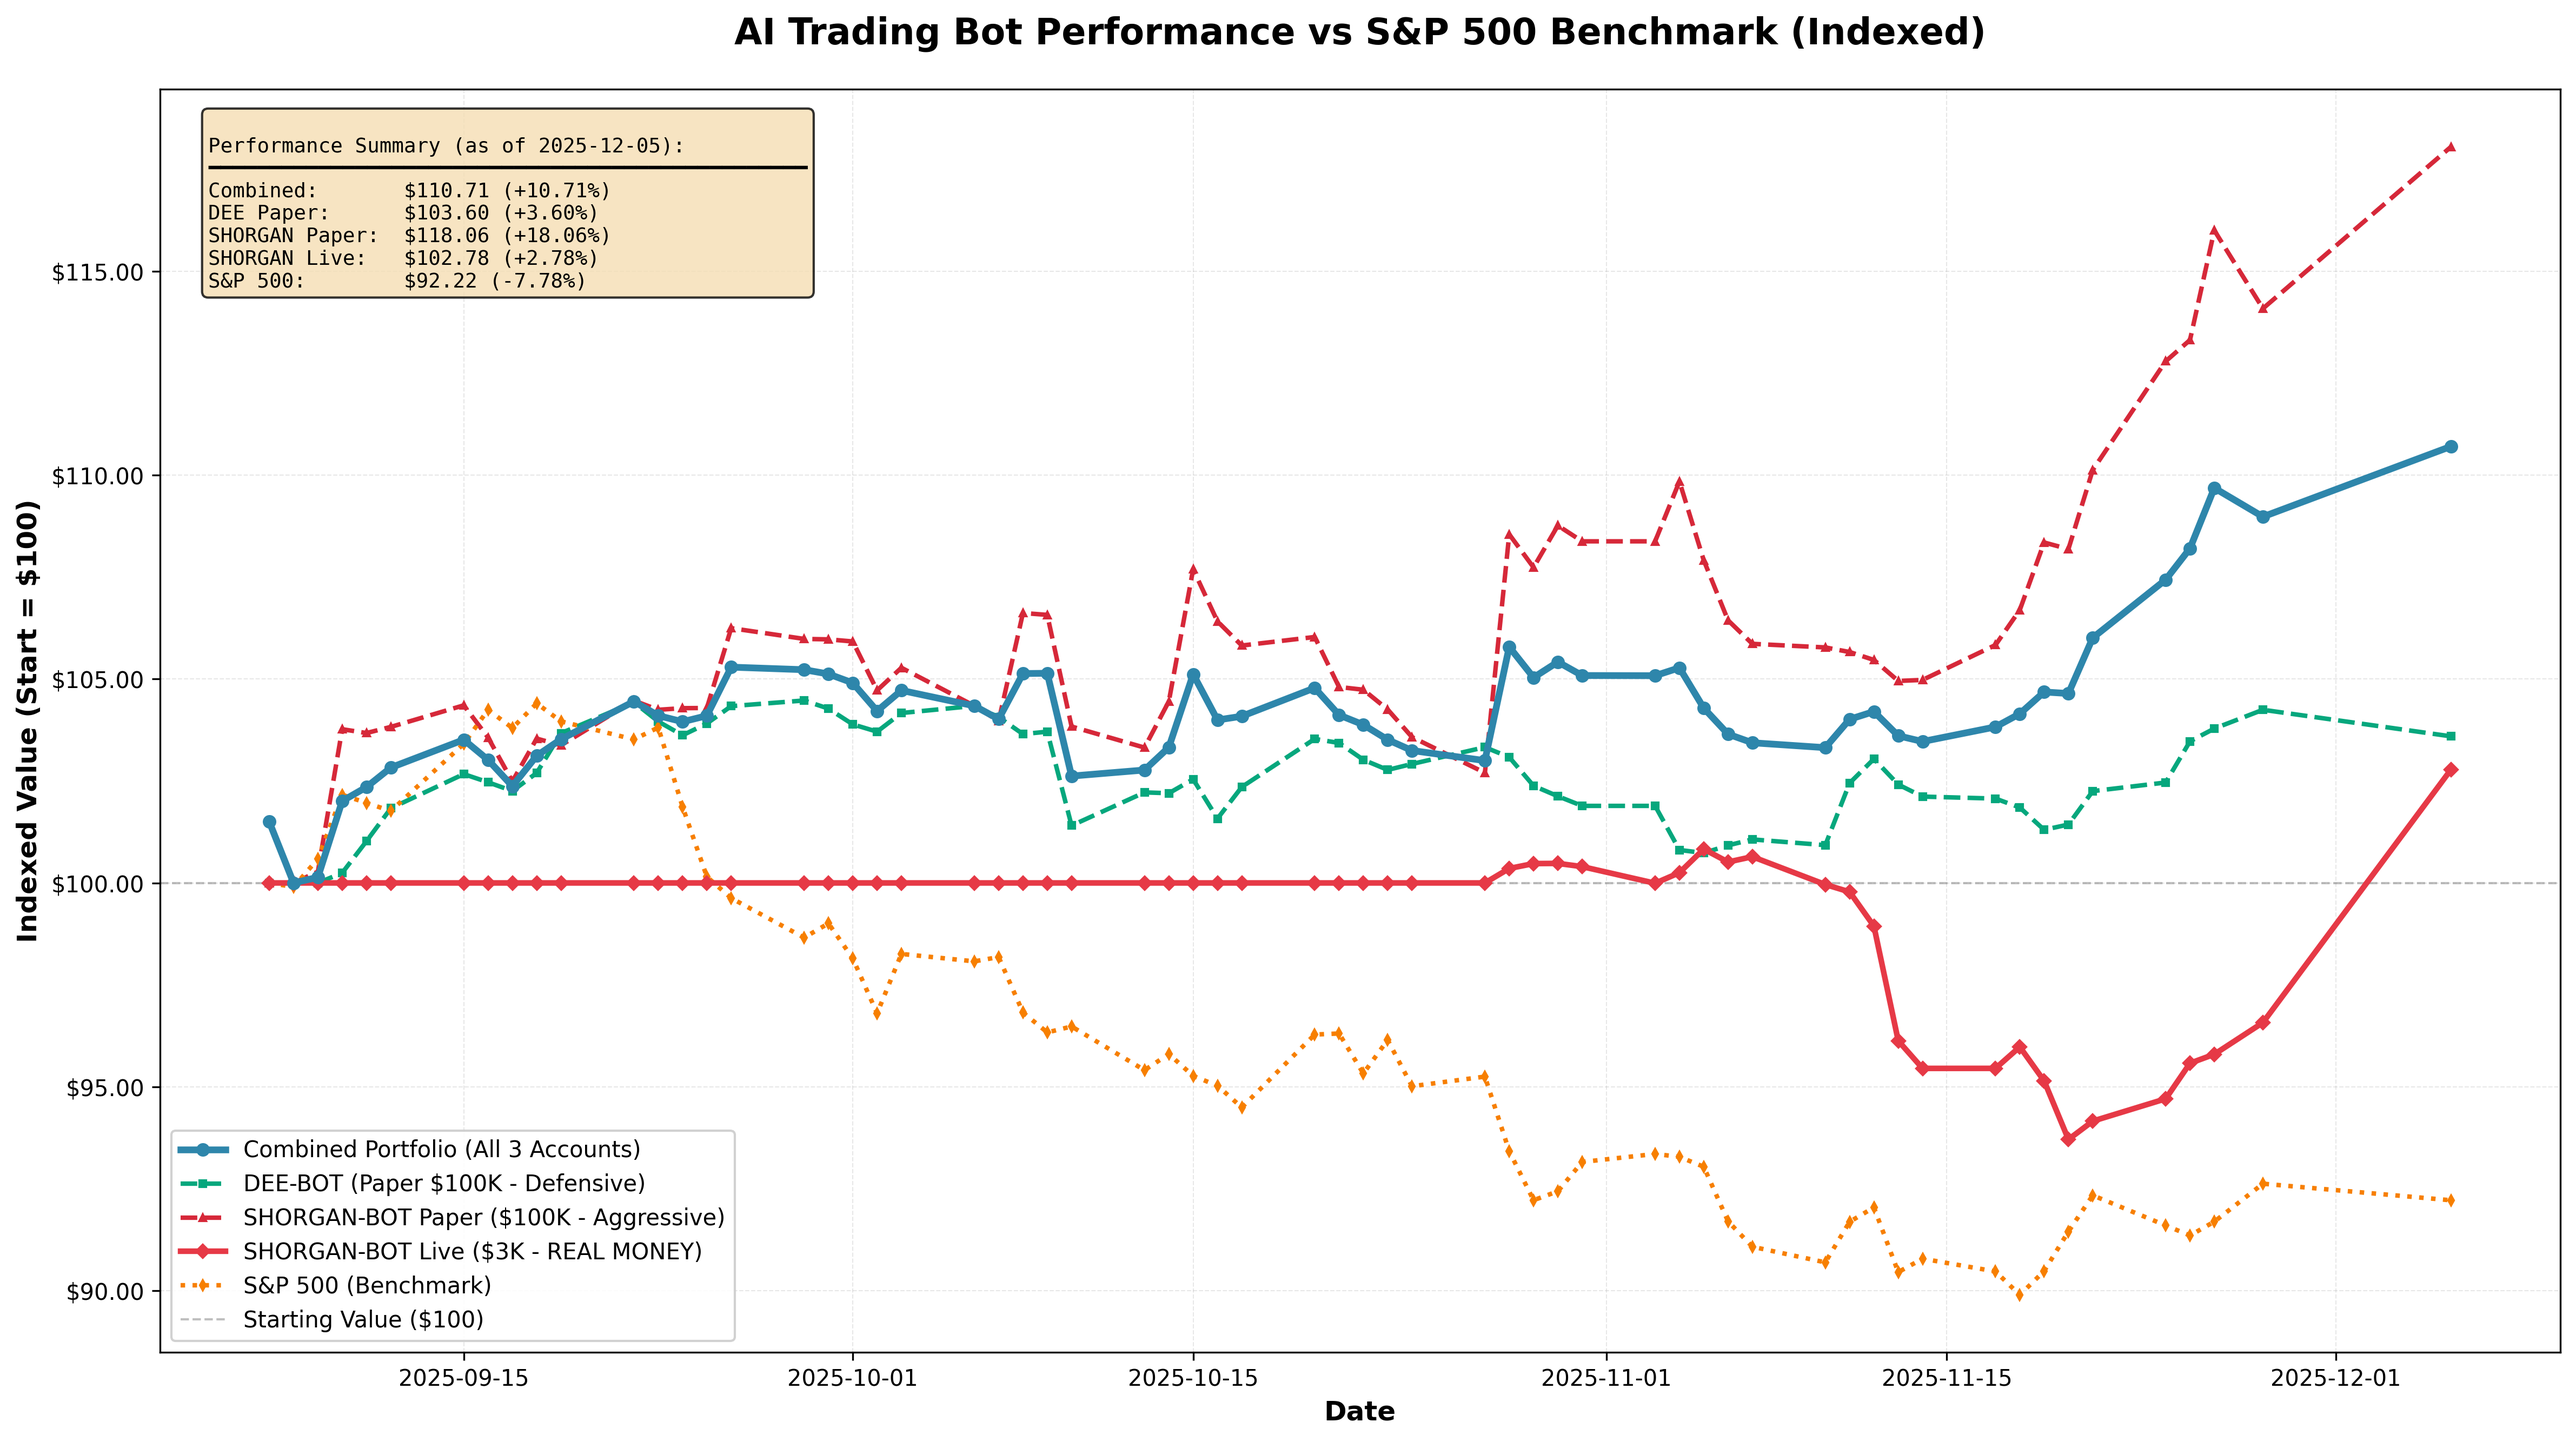
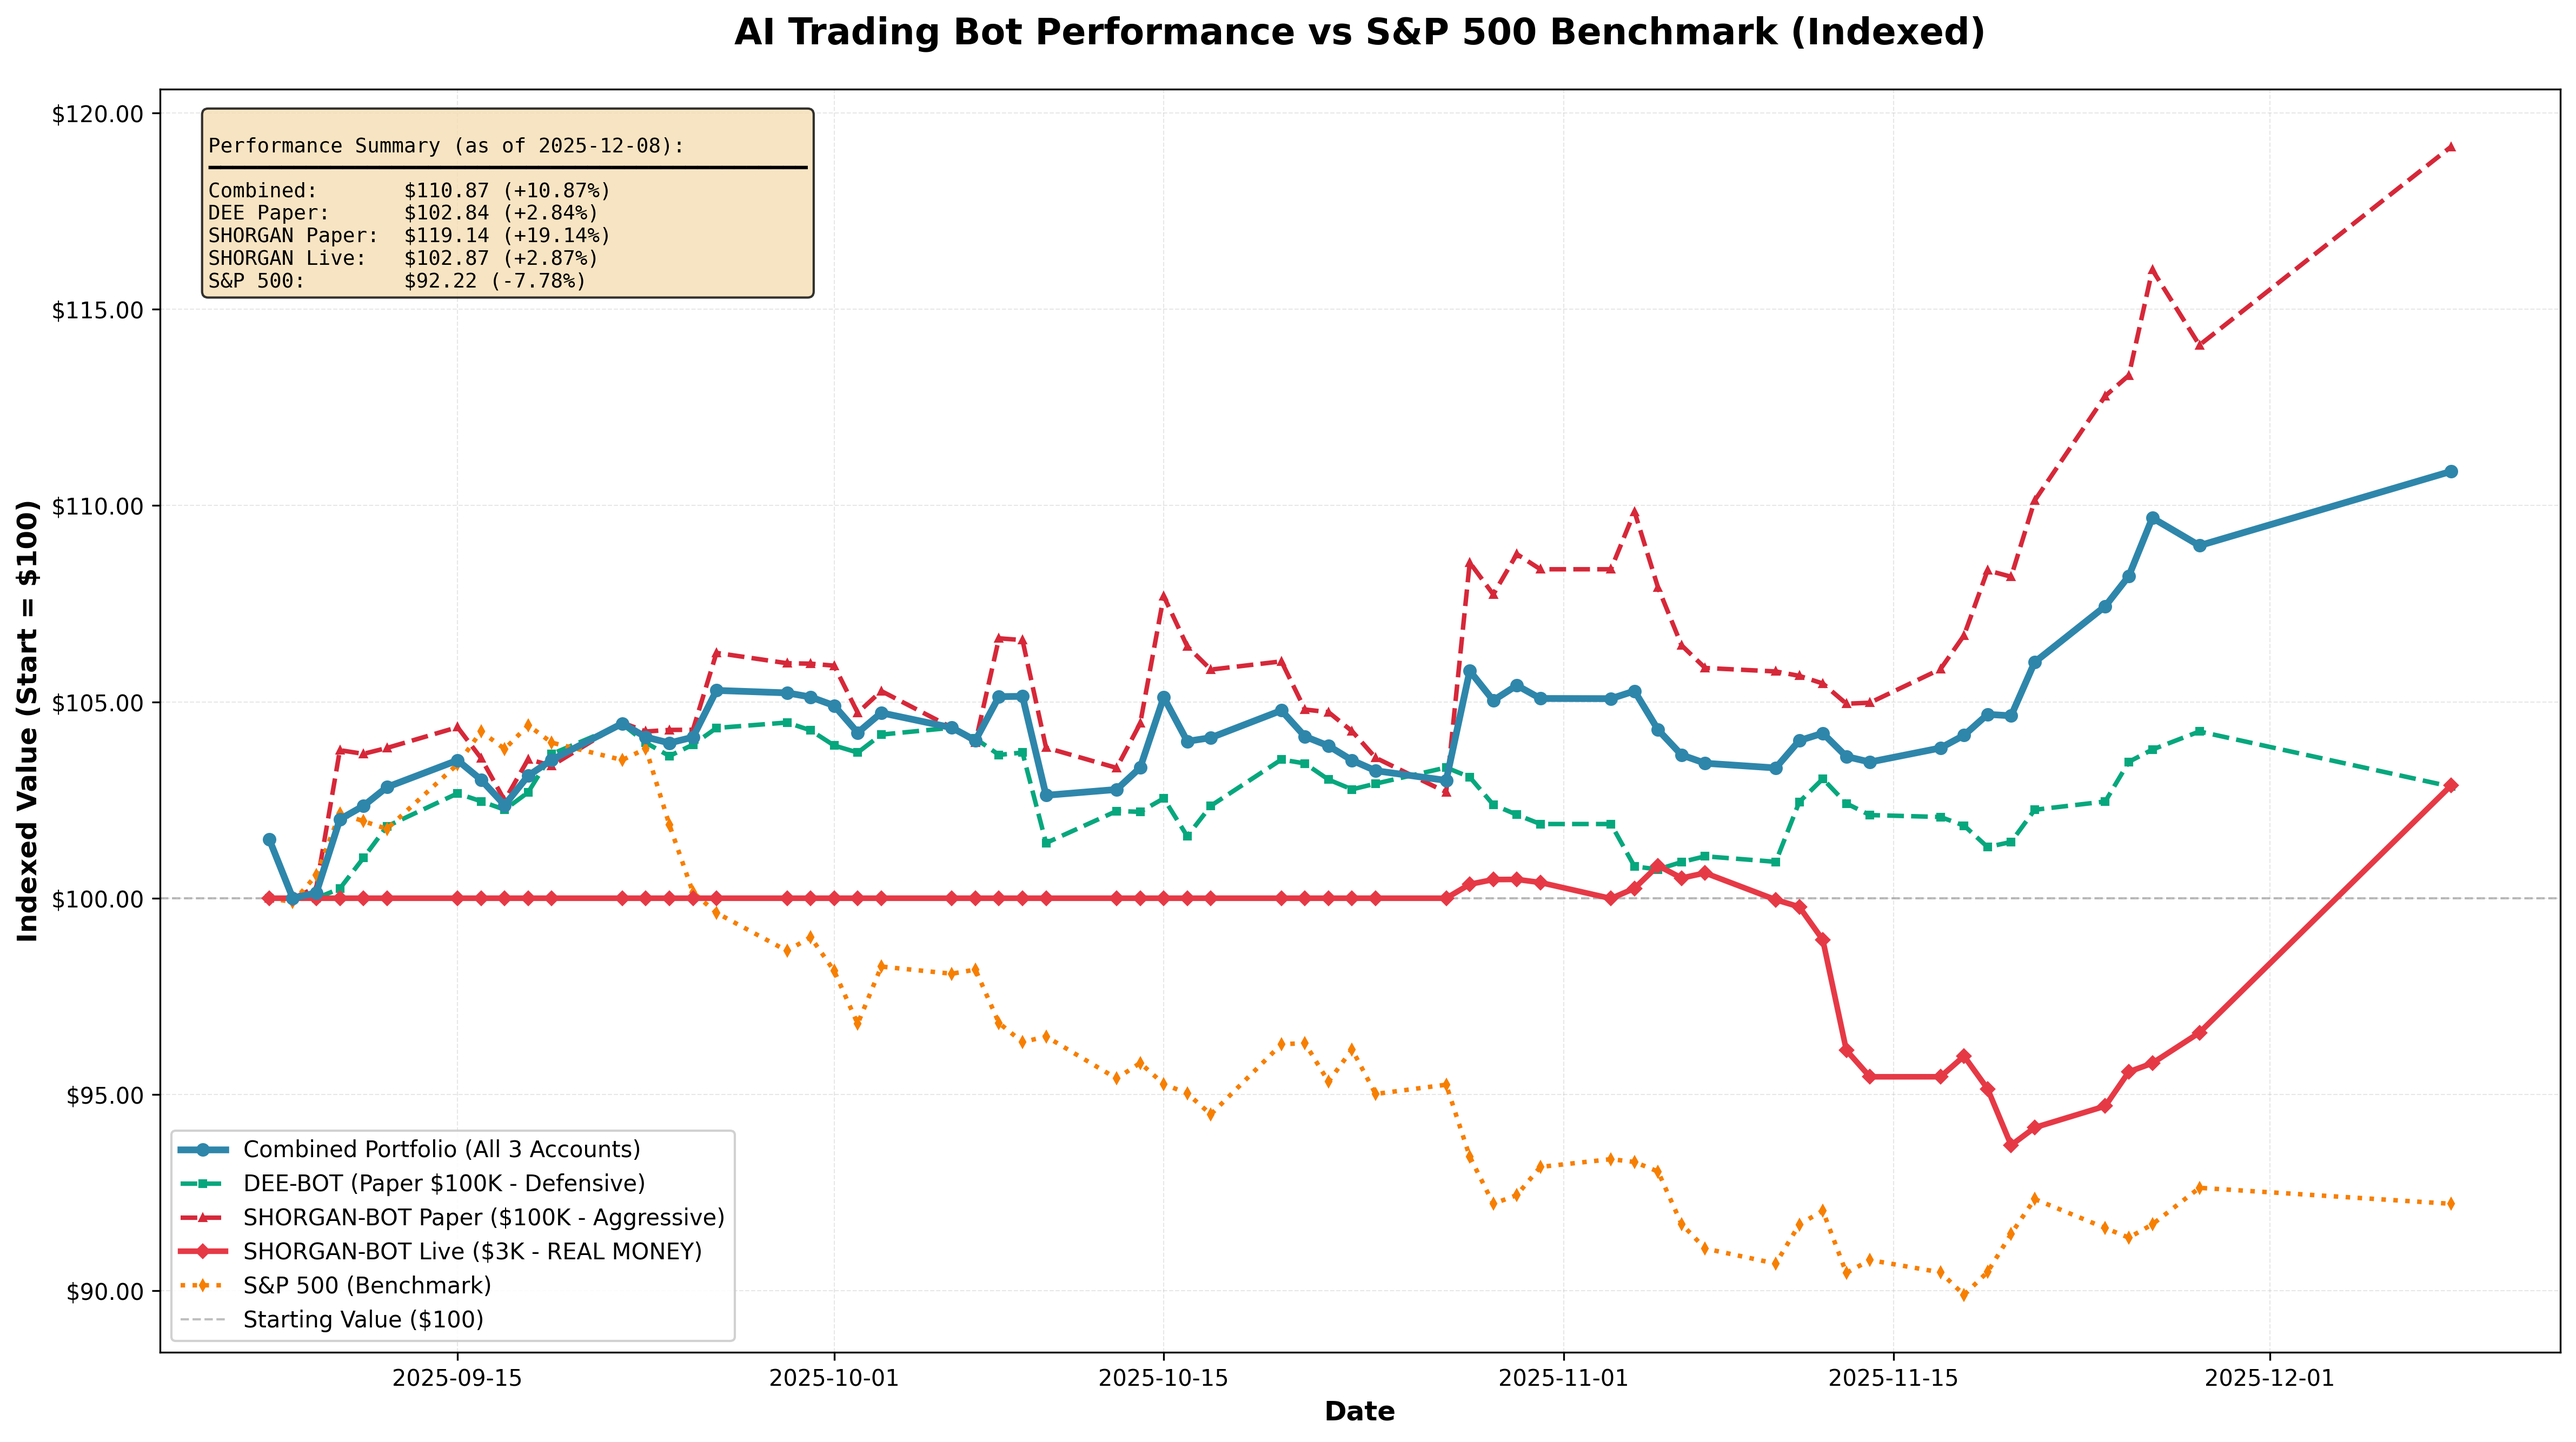
docs: add Dec 8 session summary - trade execution and lockup feature
Session accomplishments:
- Executed 22 trades across all accounts (8 Live, 11 Paper, 3 DEE)
- Created execute_shorgan_paper.py for dedicated Paper execution
- Added lockup expiration screening to SHORGAN prompts
- Portfolio at $225K (+10.87%), Alpha +18.65% vs S&P 500

🤖 Generated with [Claude Code](https://claude.com/claude-code)

diff --git a/docs/session-summaries/SESSION_SUMMARY_2025-12-08_TRADE_EXECUTION.md b/docs/session-summaries/SESSION_SUMMARY_2025-12-08_TRADE_EXECUTION.md
@@ -1,0 +1,154 @@
+# Session Summary - December 8, 2025
+## Trade Execution & Lockup Expiration Feature
+
+---
+
+## Session Overview
+**Date**: December 8, 2025 (Sunday)
+**Duration**: ~2 hours
+**Focus**: Execute Dec 8 trades, create SHORGAN Paper execution script, add lockup expiration screening
+
+---
+
+## What Was Accomplished
+
+### 1. Research Generation (Dec 9 Trading)
+- Generated research for all 3 bots using `--force` flag
+- DEE-BOT: Portfolio rebalancing recommendations
+- SHORGAN Paper: 11 catalyst-driven trades
+- SHORGAN Live: 8 small-account trades
+- All PDFs sent to Telegram
+
+### 2. Trade Execution - 22 Total Trades
+
+**SHORGAN Live ($3K Account)** - 8/8 SUCCESS
+| Action | Symbol | Shares | Price |
+|--------|--------|--------|-------|
+| SELL | ASTS | 1 | $73.53 |
+| SELL | IONQ | 4 | $53.58 |
+| SELL | NIO | 18 | $5.12 |
+| SELL | PTON | 36 | $6.43 |
+| BUY | BILI | 10 | $26.01 |
+| BUY | PATH | 13 | $19.18 |
+| BUY | SAVA | 92 | $3.24 |
+| BUY | CHWY | 8 | $34.59 |
+
+**SHORGAN Paper ($100K Account)** - 11/11 SUCCESS
+| Action | Symbol | Shares | Price |
+|--------|--------|--------|-------|
+| SELL | ARWR | 100 | $69.50 |
+| SELL | ARQQ | 175 | $29.15 |
+| SELL | ORCL | 10 | $218.75 |
+| BUY | SRRK | 193 | $45.75 |
+| BUY | BEAM | 500 | $27.50 |
+| BUY | LOVE | 400 | $13.75 |
+| BUY | DOCU | 200 | $65.50 |
+| BUY | IONQ | 200 | $54.00 |
+| BUY | RIG | 750 | $4.45 |
+| BUY | ENPH | 300 | $31.25 |
+| BUY | ORCL | 72 | $219.00 |
+
+**DEE-BOT Paper ($100K Account)** - 3/5 SUCCESS
+- CVX SELL: 20 shares @ $147.50 - SUCCESS
+- JNJ SELL: 15 shares @ $202.00 - SUCCESS
+- T BUY: 200 shares @ $24.80 - SUCCESS
+- UNH BUY: 34 shares - FAILED (exceeds 8% position limit)
+- PG BUY: 20 shares - FAILED (conflicting sell order exists)
+
+### 3. New Script Created: `execute_shorgan_paper.py`
+
+**Problem**: Main `execute_daily_trades.py` routes all SHORGAN trades to LIVE account
+**Solution**: Created dedicated script for SHORGAN Paper account
+
+```python
+# scripts/automation/execute_shorgan_paper.py
+# Uses SHORGAN Paper API credentials:
+# - ALPACA_API_KEY_SHORGAN
+# - ALPACA_SECRET_KEY_SHORGAN
+# - Base URL: https://paper-api.alpaca.markets
+```
+
+Features:
+- Parses SHORGAN-BOT section from TODAYS_TRADES markdown
+- Validates positions before selling
+- Adjusts order sizes based on buying power
+- Logs all trades to `scripts-and-data/trade-logs/`
+
+### 4. Lockup Expiration Feature Added
+
+Added IPO/SPAC lockup expiration as catalyst screening criteria:
+
+**SHORGAN Paper Prompt Updates:**
+- CATALYST CALENDAR: Added lockup expiration (7-30 day window)
+- SHORT OPPORTUNITIES: Added detailed lockup short criteria
+
+**SHORGAN Live Prompt Updates:**
+- CATALYST CALENDAR: Added lockup screening for $10-$100 stocks
+- SHORT SELLING RULES: Added sizing guidance ($150-$250 per lockup short)
+
+**Rationale**: Lockup expirations create predictable selling pressure from insiders, making them high-probability short setups when combined with overvalued stocks trading above IPO price.
+
+---
+
+## Portfolio Performance (End of Day)
+
+| Account | Value | Return |
+|---------|-------|--------|
+| **Combined** | **$225,067.54** | **+10.87%** |
+| DEE-BOT Paper | $102,842.08 | +2.84% |
+| SHORGAN Paper | $119,139.38 | +19.14% |
+| SHORGAN Live | $3,086.08 | +2.87% |
+| S&P 500 | - | -7.78% |
+
+**Alpha vs S&P 500: +18.65%**
+
+---
+
+## Git Commits
+
+| Hash | Message |
+|------|---------|
+| 91ed381 | feat: add SHORGAN Paper trade execution script |
+| ea562b6 | feat: add lockup expiration screening to SHORGAN prompts |
+
+---
+
+## Files Created/Modified
+
+**New Files:**
+1. `scripts/automation/execute_shorgan_paper.py` - Dedicated Paper account execution
+2. `scripts-and-data/trade-logs/shorgan_paper_20251208_150917.json` - Trade log
+
+**Modified Files:**
+1. `scripts/automation/claude_research_generator.py` - Added lockup expiration criteria
+
+---
+
+## System Status
+
+| Component | Status |
+|-----------|--------|
+| DEE-BOT Paper | ✅ Operational |
+| SHORGAN Paper | ✅ Operational (new script) |
+| SHORGAN Live | ✅ Operational |
+| Research Generation | ✅ Working |
+| Trade Execution | ✅ All scripts functional |
+| Performance Graph | ✅ Sent to Telegram |
+
+---
+
+## Tomorrow (Dec 9) Expectations
+
+**Trades Ready:**
+- DEE-BOT: 5 trades (UNH, T, PG buys + CVX, JNJ sells)
+- SHORGAN Paper: Already executed today's trades
+- SHORGAN Live: Already executed today's trades
+
+**Automation Schedule:**
+- 8:30 AM: Trade generation from today's research
+- 9:30 AM: Trade execution
+- 4:30 PM: Performance graph update
+
+---
+
+*Generated by AI Trading Bot System*
